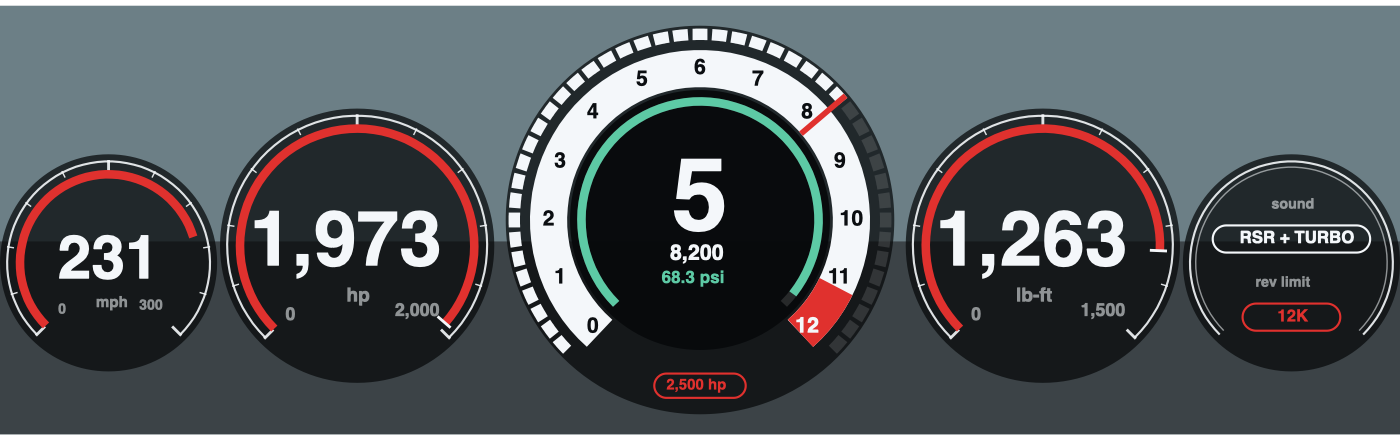
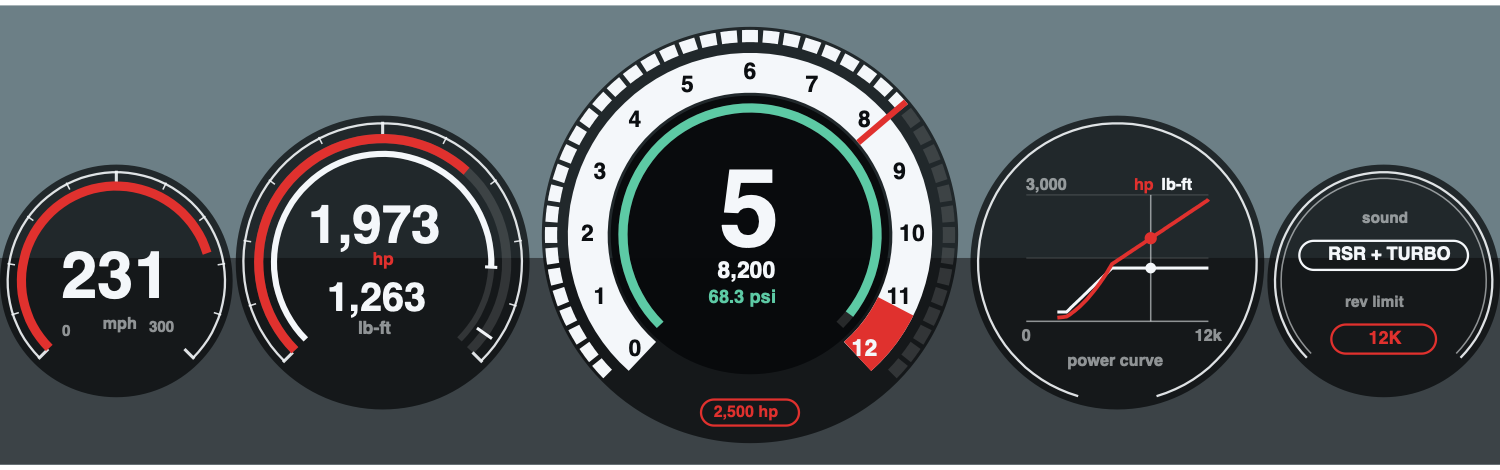
Cluster: horsepower and torque share a clock, the power curve gets the clock beside the rev counter

diff --git a/README.md b/README.md
@@ -13,7 +13,7 @@ Assetto Corsa runs under CrossOver; everything that talks to the hardware runs n
 | [`results/`](results) | The lap log: every lap time and sector from every session, with charts for the Ferrari F2004 and the Nordschleife. |
 | [`laps/`](laps) | Every lap the recorder has saved: speed, pedals, position and per-wheel data on 2,000 steps round the track. |
 
-![The in-game cluster: speed, horsepower, rev counter with boost and gear, torque, and the sound and rev-limit lights](docs/images/cluster.png)
+![The in-game cluster: speed, horsepower with torque, rev counter with boost and gear, the power curve, and the sound and rev-limit lights](docs/images/cluster.png)
 
 The in-game cluster, drawn off-game from the app's own code by [`tools/render_app.lua`](tools/render_app.lua). Its face goes from
 white to black-with-red-ticks to solid red as the revs approach the limit.
